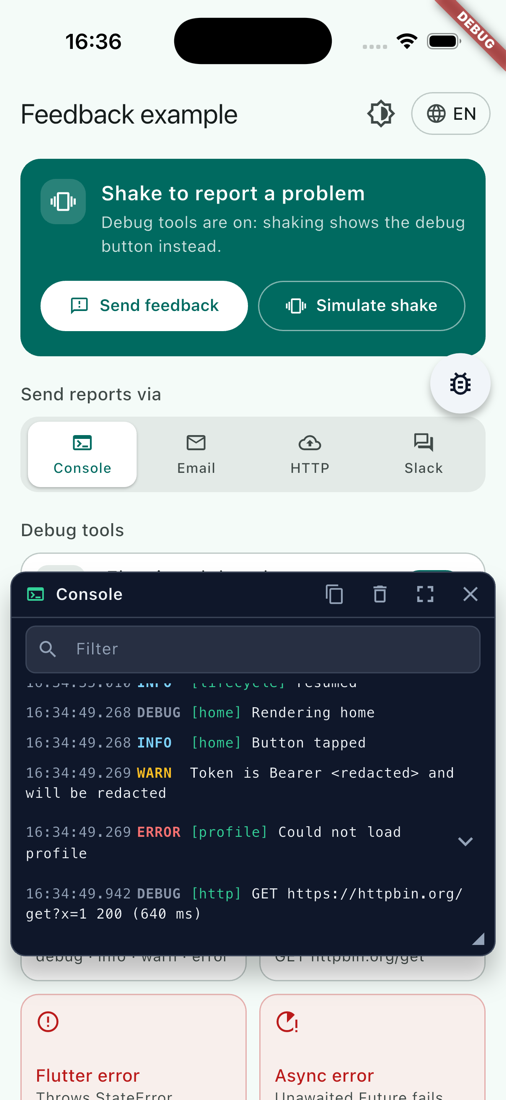
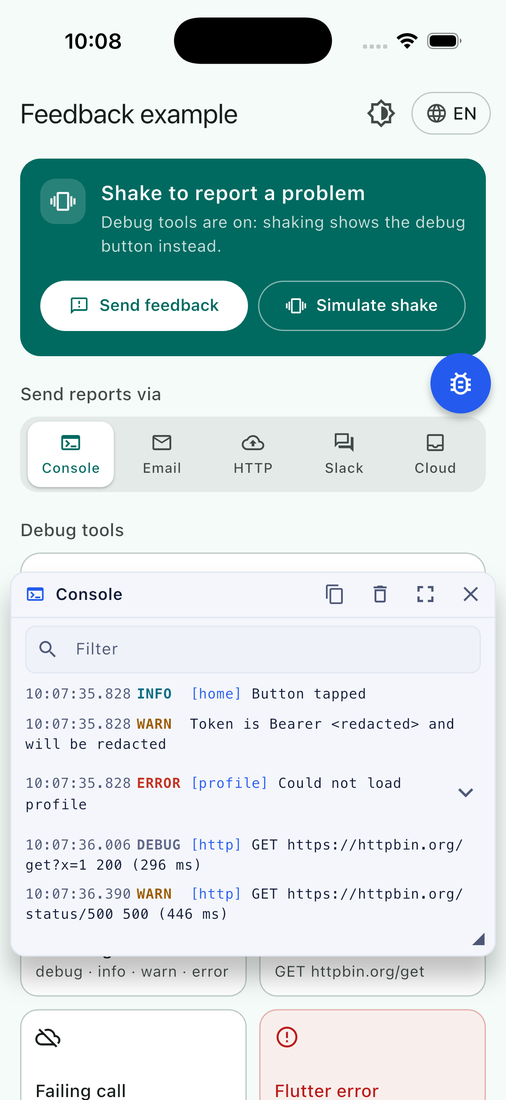
docs(readme): refresh screenshots in the new theme, without repeating the demo

diff --git a/README.md b/README.md
@@ -23,11 +23,9 @@ around it: logs, screen changes, HTTP activity, device facts and app state.
 </p>
 
 <p align="center">
-  <img src="https://raw.githubusercontent.com/kindware-dev/planish/main/doc/screenshots/form.png" width="19%" alt="The feedback form: category, message, screenshot, logs, review" />
-  <img src="https://raw.githubusercontent.com/kindware-dev/planish/main/doc/screenshots/annotate.png" width="19%" alt="Annotating the screenshot" />
-  <img src="https://raw.githubusercontent.com/kindware-dev/planish/main/doc/screenshots/review.png" width="19%" alt="What will be sent: every field the report contains" />
-  <img src="https://raw.githubusercontent.com/kindware-dev/planish/main/doc/screenshots/menu.png" width="19%" alt="The debug menu" />
-  <img src="https://raw.githubusercontent.com/kindware-dev/planish/main/doc/screenshots/console.png" width="19%" alt="The floating console over the running app" />
+  <img src="https://raw.githubusercontent.com/kindware-dev/planish/main/doc/screenshots/menu.png" width="26%" alt="The debug menu" />
+  <img src="https://raw.githubusercontent.com/kindware-dev/planish/main/doc/screenshots/network.png" width="26%" alt="The network log, with failed calls in red" />
+  <img src="https://raw.githubusercontent.com/kindware-dev/planish/main/doc/screenshots/console.png" width="26%" alt="The floating console over the running app" />
 </p>
 
 ## Why Planish
